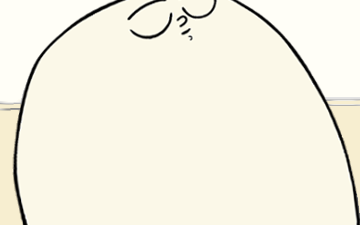
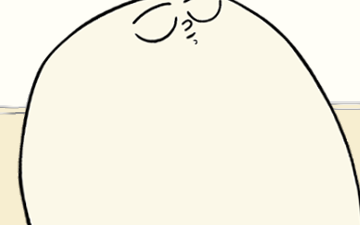
new templates, should display properly if i'm not clinically insane

Changed region(s): [[0.0, 0.0, 0.7333, 1.0], [0.7333, 0.0933, 1.0, 1.0]]

diff --git a/app/assets/javascripts/background_json.js b/app/assets/javascripts/background_json.js
@@ -1,67 +1,67 @@
 var canvasJSON = [
     {
       "id": "option-head",
-      "url": "https://res.cloudinary.com/www-michaelbelzil-com/image/upload/v1535565297/head-400W-300H-320L-90T.png",
+      "url": "https://res.cloudinary.com/www-michaelbelzil-com/image/upload/v1535639890/tranq/head-400W-300H-320L-90T.png",
       "width": 500,
       "height": 375
     },
     {
       "id": "option-face",
-      "url": "https://res.cloudinary.com/www-michaelbelzil-com/image/upload/v1535565297/face-150W-150H-450L-180T.png",
+      "url": "https://res.cloudinary.com/www-michaelbelzil-com/image/upload/v1535639890/tranq/face-150W-150H-450L-180T.png",
       "width": 400,
       "height": 400
     },
     {
       "id": "option-neck",
-      "url": "https://res.cloudinary.com/www-michaelbelzil-com/image/upload/v1535565298/neck-360W-225H-345L-230T.png",
+      "url": "https://res.cloudinary.com/www-michaelbelzil-com/image/upload/v1535640170/tranq/neck-360W-225H-345L-230T.png",
       "width": 480,
       "height": 300
     },
     {
       "id": "option-body",
-      "url": "https://res.cloudinary.com/www-michaelbelzil-com/image/upload/v1535565297/body-400W-400H-340L-250T.png",
+      "url": "https://res.cloudinary.com/www-michaelbelzil-com/image/upload/v1535639890/tranq/body-400W-400H-340L-250T.png",
       "width": 400,
       "height": 400
     },
     {
       "id": "option-couch",
-      "url": "https://res.cloudinary.com/www-michaelbelzil-com/image/upload/v1535565297/couch-1000W-500H-250L-275T.png",
+      "url": "https://res.cloudinary.com/www-michaelbelzil-com/image/upload/v1535639891/tranq/couch-1000W-500H-250L-275T.png",
       "width": 700,
       "height": 350
     },
     {
       "id": "option-table",
-      "url": "https://res.cloudinary.com/www-michaelbelzil-com/image/upload/v1535565297/table-800W-400H-485L-600T.png",
+      "url": "https://res.cloudinary.com/www-michaelbelzil-com/image/upload/v1535639890/tranq/table-800W-400H-485L-600T.png",
       "width": 700,
       "height": 350
     },
     {
       "id": "option-side_table",
-      "url": "https://res.cloudinary.com/www-michaelbelzil-com/image/upload/v1535565297/side-table-400W-400H-0L-350T.png",
+      "url": "https://res.cloudinary.com/www-michaelbelzil-com/image/upload/v1535639891/tranq/side-table-400W-400H-0L-350T.png",
       "width": 400,
       "height": 400
     },
     {
       "id": "option-window",
-      "url": "https://res.cloudinary.com/www-michaelbelzil-com/image/upload/v1535565297/window-1000W-400H-240L-0T.png",
+      "url": "https://res.cloudinary.com/www-michaelbelzil-com/image/upload/v1535639890/tranq/window-1000W-400H-240L-0T.png",
       "width": 700,
       "height": 280
     },
     {
       "id": "option-plant",
-      "url": "https://res.cloudinary.com/www-michaelbelzil-com/image/upload/v1535565298/plant-450W-630H-1118L-100T.png",
+      "url": "https://res.cloudinary.com/www-michaelbelzil-com/image/upload/v1535639891/tranq/plant-450W-630H-1118L-100T.png",
       "width": 500,
       "height": 700
     },
      {
       "id": "option-floor",
-      "url": "https://res.cloudinary.com/www-michaelbelzil-com/image/upload/v1535565297/floor-500W-250H-0L-750T.png",
+      "url": "https://res.cloudinary.com/www-michaelbelzil-com/image/upload/v1535639891/tranq/floor-500W-250H-0L-750T.png",
       "width": 500,
       "height": 250
     },
     {
       "id": "option-wall",
-      "url": "https://res.cloudinary.com/www-michaelbelzil-com/image/upload/v1535565298/wall-500W-600H-1118L-0T.png",
+      "url": "https://res.cloudinary.com/www-michaelbelzil-com/image/upload/v1535639891/tranq/wall-500W-600H-1118L-0T.png",
       "width": 500,
       "height": 600
     }

diff --git a/app/assets/stylesheets/components/_added_items.scss b/app/assets/stylesheets/components/_added_items.scss
@@ -7,74 +7,74 @@
 // For each type of element
 .added__items .toolbar__item--head{
 
-  width: 25%;
-  height: 29%;
-  left: 18.5%;
-  top: 10%;
+  width: 24.72%;
+  height: 30%;
+  left: 19.78%;
+  top: 9%;
   z-index: 9;
 
 }
 
 .added__items .toolbar__item--face{
-  width: 9%;
-  height: 16%;
-  left: 28%;
+  width: 9.27%;
+  height: 15%;
+  left: 27.81%;
   top: 18%;
   z-index: 10;
 }
 
 .added__items .toolbar__item--neck{
-  width: 25%;
-  height: 25%;
-  left: 21%;
-  top: 25%;
+  width: 22.25%;
+  height: 22.50%;
+  left: 21.32%;
+  top: 23%;
   z-index: 8;
 }
 
 .added__items .toolbar__item--body{
-  top: 26%;
-  left: 21.3%;
-  width: 25%;
-  height: 41%;
+  width: 24.72%;
+  height: 40%;
+  top: 25%;
+  left: 21.01%;
   z-index: 6;
 }
 
 .added__items .toolbar__item--couch{
-  top: 28%;
-  left: 14.8%;
-  width: 61.5%;
-  height: 48.8%;
+  width: 61.8%;
+  height: 50%;
+  left: 15.45%;
+  top: 27.50%;
   z-index: 5;
 }
 .added__items .toolbar__item--table{
-  width: 43%;
+  width: 49.44%;
   height: 40%;
-  left: 27%;
+  left: 24.72%;
   top: 60%;
   z-index: 11;
 }
 
 .added__items .toolbar__item--side_table{
-  width: 21.5%;
-  height: 34.5%;
+  width: 24.72%;
+  height: 40%;
   left: 0;
-  top: 41%;
+  top: 35%;
   z-index: 2;
 }
 
 .added__items .toolbar__item--window{
-  width: 62.2%;
+  width: 61.80%;
   height: 40%;
-  left: 14.5%;
+  left: 14.83%;
   top: 0;
   z-index: 3;
 }
 
 .added__items .toolbar__item--plant{
-  width: 31%;
-  height: 70%;
-  right: 0;
-  top: 5.5%;
+  width: 27.81%;
+  height: 63%;
+  left: 69.1%;
+  top: 10%;
   z-index: 7;
 }
 
@@ -87,7 +87,7 @@
 }
 
 .added__items .toolbar__item--wall{
-  width: 31%;
+  width: 30.9%;
   height: 60%;
   right: 0;
   top: 0;
